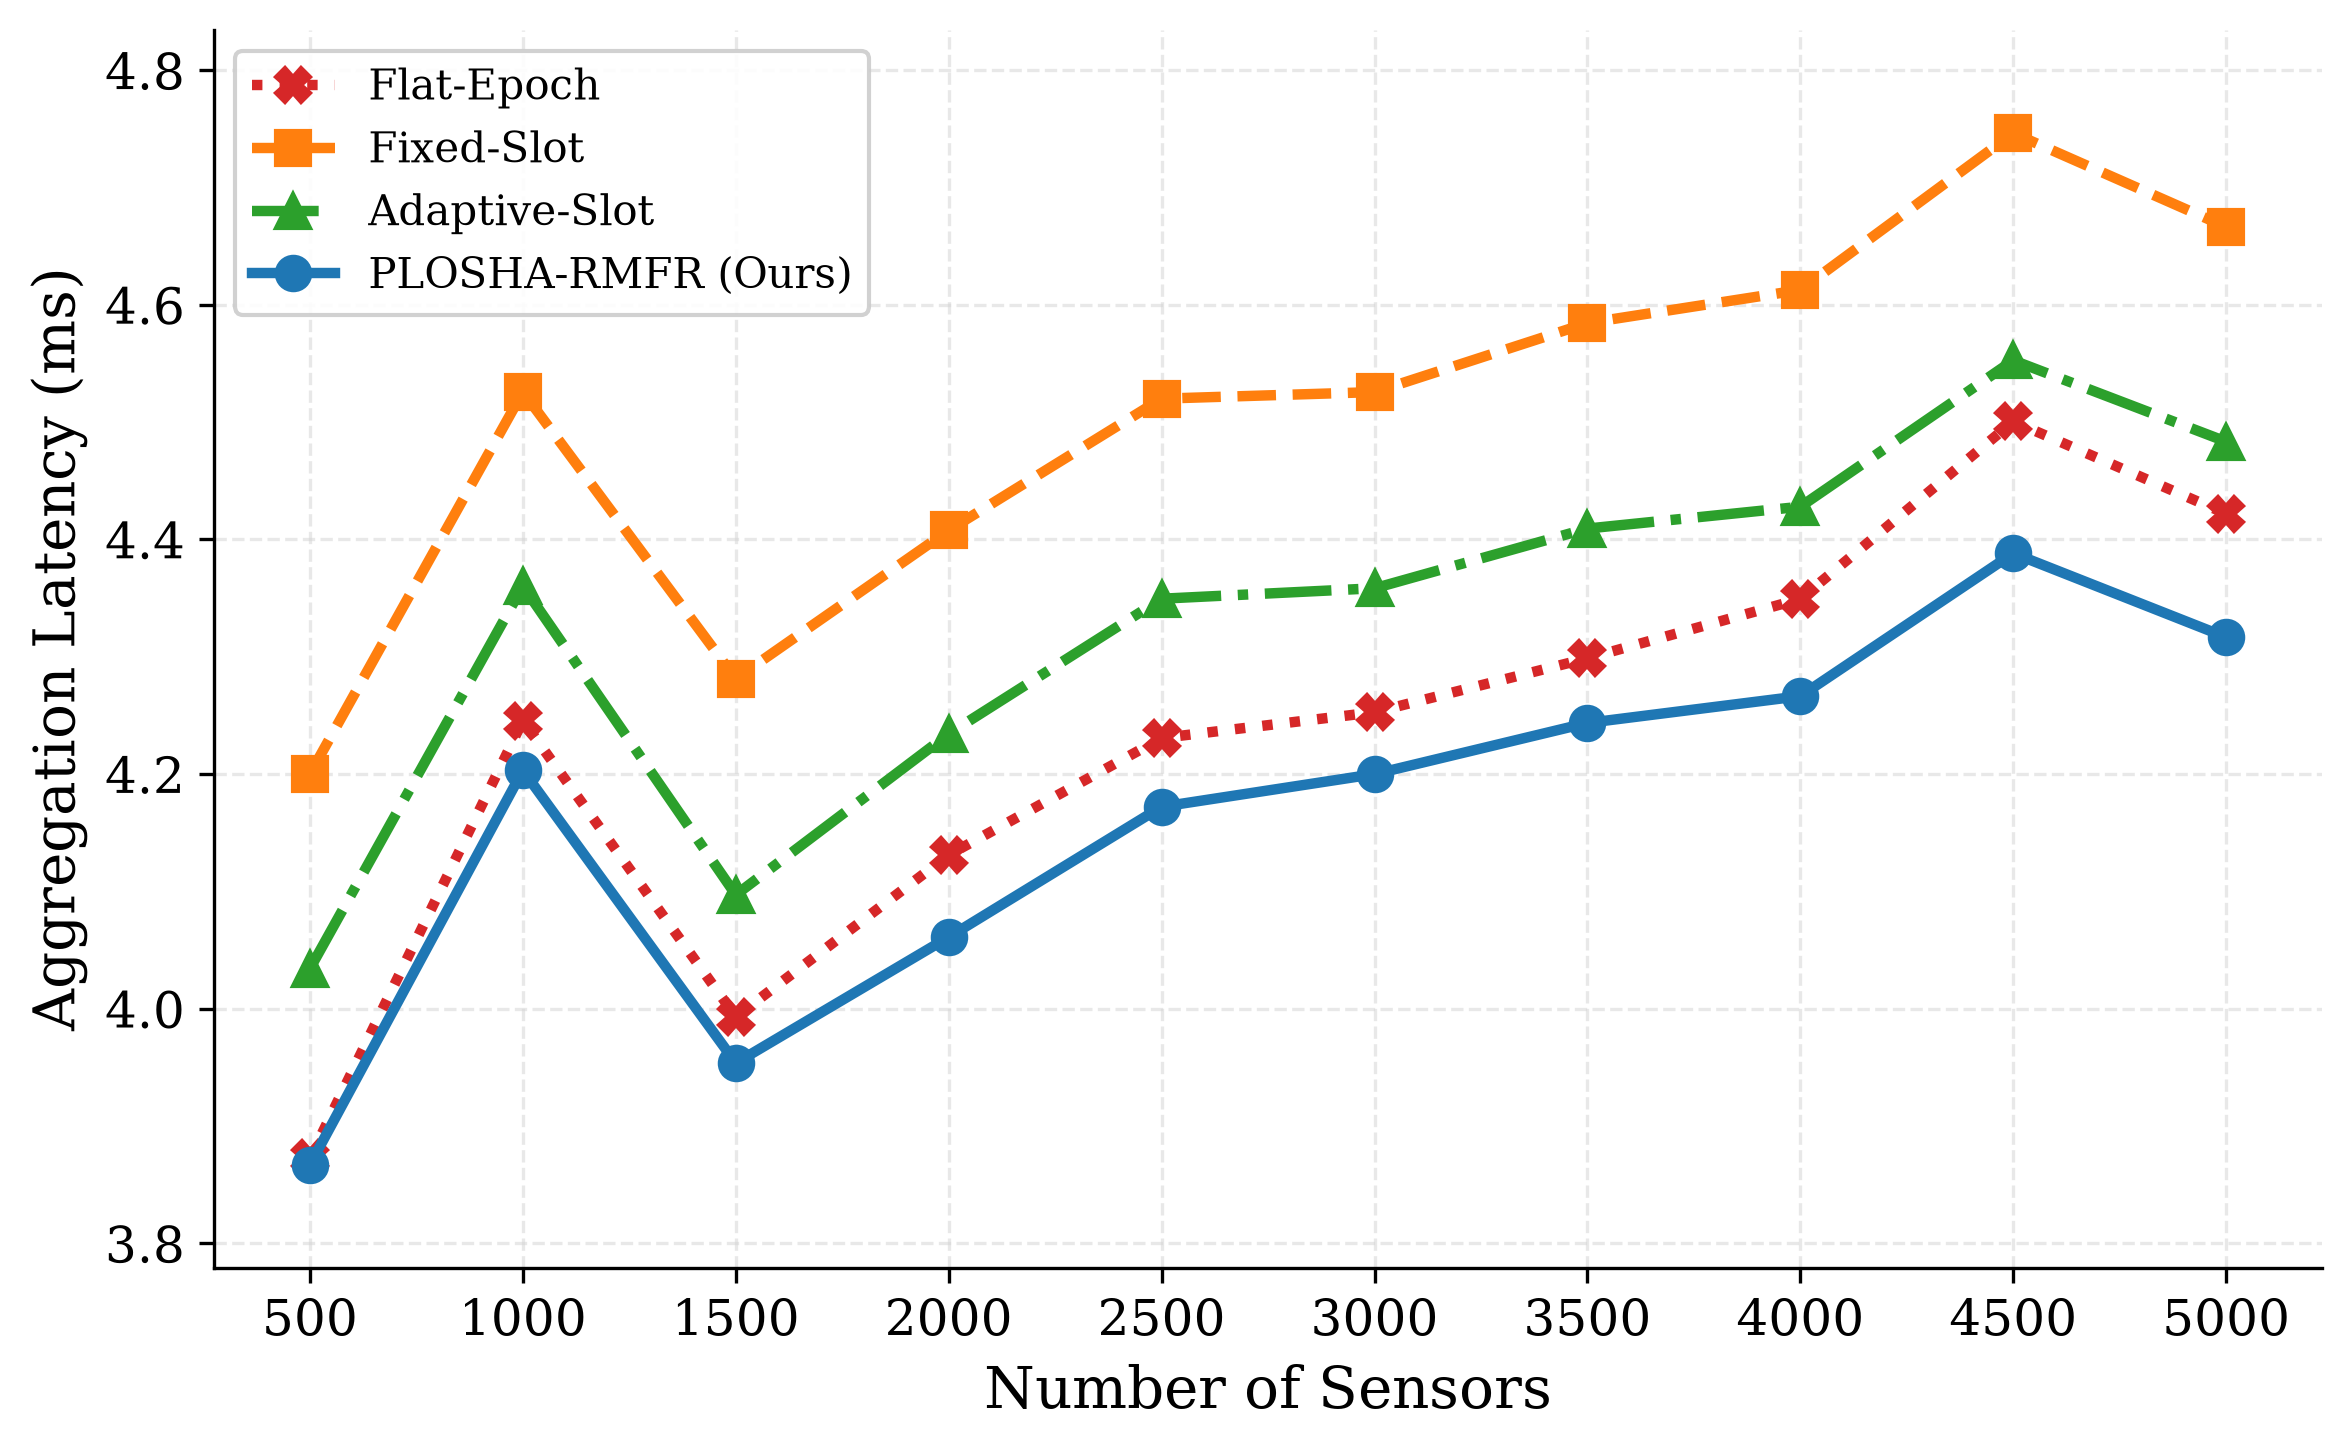
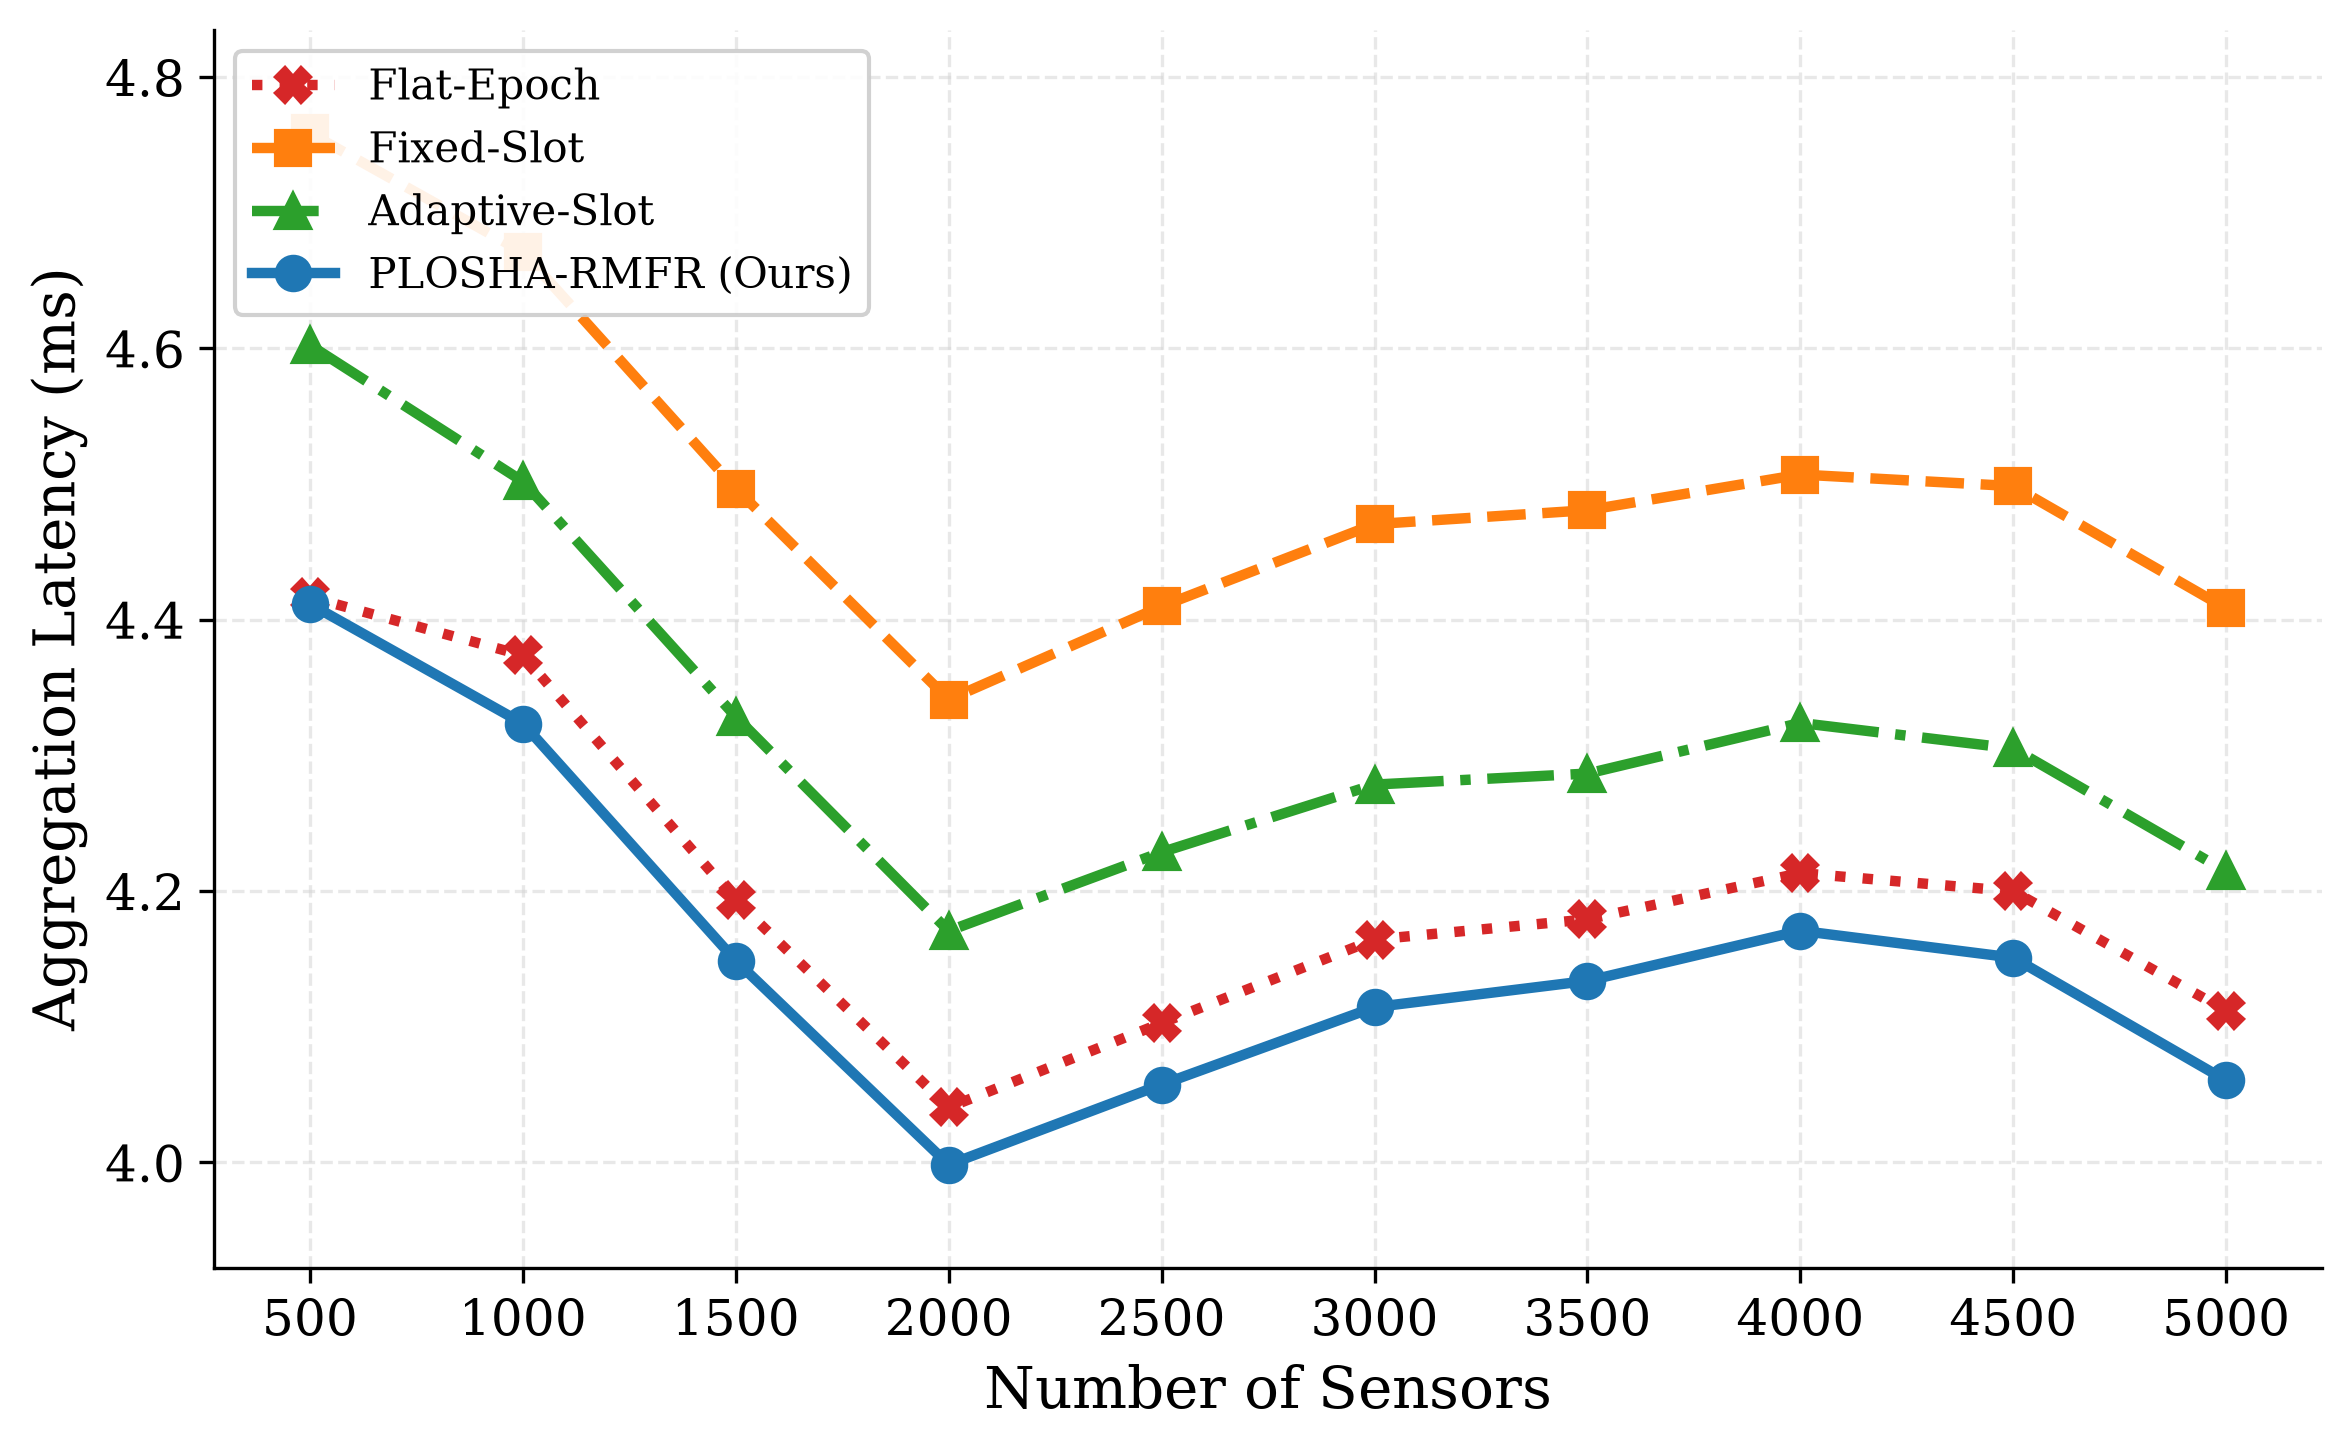
Guyexp1

diff --git a/schemes/plosha_rmfr/src/des_engine.cpp b/schemes/plosha_rmfr/src/des_engine.cpp
@@ -119,19 +119,30 @@ EpochMetrics DESEngine::runEpoch(
   if (config.failure_rate > 0.0) {
     std::weibull_distribution<double> weibull(1.5, config.failure_rate);
     double current_fail_rate = std::min(1.0, weibull(rng));
-    int num_failures = static_cast<int>(std::ceil(current_fail_rate * num_fog));
-    num_failures = std::min(num_failures, num_fog - 1); // Keep at least 1 alive
 
     // Reset all to non-failed first
     for (auto &fn : fog_nodes)
       fn.setFailed(false);
 
-    // Randomly select fog nodes to fail
-    std::vector<int> fog_indices(num_fog);
-    std::iota(fog_indices.begin(), fog_indices.end(), 0);
-    std::shuffle(fog_indices.begin(), fog_indices.end(), rng);
-    for (int i = 0; i < num_failures; ++i) {
-      fog_nodes[fog_indices[i]].setFailed(true);
+    // Independent Bernoulli(current_fail_rate) trial per node. The previous
+    // implementation converted the rate to a node COUNT via
+    // ceil(rate * num_fog), which quantizes the realized failure fraction
+    // and biases it in a num_fog-dependent way (measured: +0.7pp at 5 nodes
+    // to -5.4pp at 50 nodes vs. the nominal rate, after the num_fog-1 cap).
+    // Per-node trials realize the nominal rate without count rounding.
+    std::uniform_real_distribution<double> fail_coin(0.0, 1.0);
+    int num_failures = 0;
+    for (auto &fn : fog_nodes) {
+      if (fail_coin(rng) < current_fail_rate) {
+        fn.setFailed(true);
+        ++num_failures;
+      }
+    }
+
+    // Keep at least 1 node alive (same invariant as before).
+    if (num_failures == num_fog) {
+      std::uniform_int_distribution<int> pick(0, num_fog - 1);
+      fog_nodes[pick(rng)].setFailed(false);
     }
   }
 
@@ -143,6 +154,14 @@ EpochMetrics DESEngine::runEpoch(
   std::uniform_real_distribution<double> drop_dist(0.0, 1.0);
   double sensor_drop_rate =
       config.failure_rate * 0.5; // 50% of node failure rate
+
+  // Per-node assigned load this epoch, recorded at submission time. The
+  // workload-imbalance metric below must be computed from this, not from
+  // currentQueueSize(): by the time imbalance is measured the aggregation
+  // phase has already drained every queue, so queue sizes are all zero and
+  // the formula degenerates to exactly 1/num_fog for every epoch (std = 0),
+  // carrying no information about the actual load distribution.
+  std::vector<int> assigned_load(num_fog, 0);
 
   for (const auto &reading : readings) {
     if (reading.sensor_id >= static_cast<int>(sensors.size()))
@@ -161,6 +180,7 @@ EpochMetrics DESEngine::runEpoch(
       // Sensor-level drop: simulates network congestion / sensor issues
       if (drop_dist(rng) >= sensor_drop_rate) {
         fog_nodes[fog_id].submitReading(qr);
+        assigned_load[fog_id]++;
       }
     }
   }
@@ -461,18 +481,21 @@ EpochMetrics DESEngine::runEpoch(
   metrics.queue_utilization = total_queue_util / num_fog;
   metrics.recovery_frequency = recovery_count;
 
-  // Compute workload imbalance (I_W) using node_load / total_load
+  // Compute workload imbalance (I_W) using node_load / total_load.
+  // Load is the per-epoch ASSIGNED reading count captured at submission time
+  // (see assigned_load above) — the residual queue size is always zero here
+  // because aggregation has already drained the queues, which made this
+  // metric a constant 1/num_fog artifact rather than a measurement.
   double total_w = 0.0;
   for (int f = 0; f < config.num_fog_nodes; ++f) {
-    total_w += static_cast<double>(fog_nodes[f].currentQueueSize());
+    total_w += static_cast<double>(assigned_load[f]);
   }
   double w_bar = 1.0 / config.num_fog_nodes;
   double var_sum = 0.0;
   for (int f = 0; f < config.num_fog_nodes; ++f) {
-    double w_i =
-        (total_w > 0)
-            ? (static_cast<double>(fog_nodes[f].currentQueueSize()) / total_w)
-            : 0.0;
+    double w_i = (total_w > 0)
+                     ? (static_cast<double>(assigned_load[f]) / total_w)
+                     : 0.0;
     double diff = w_i - w_bar;
     var_sum += diff * diff;
   }